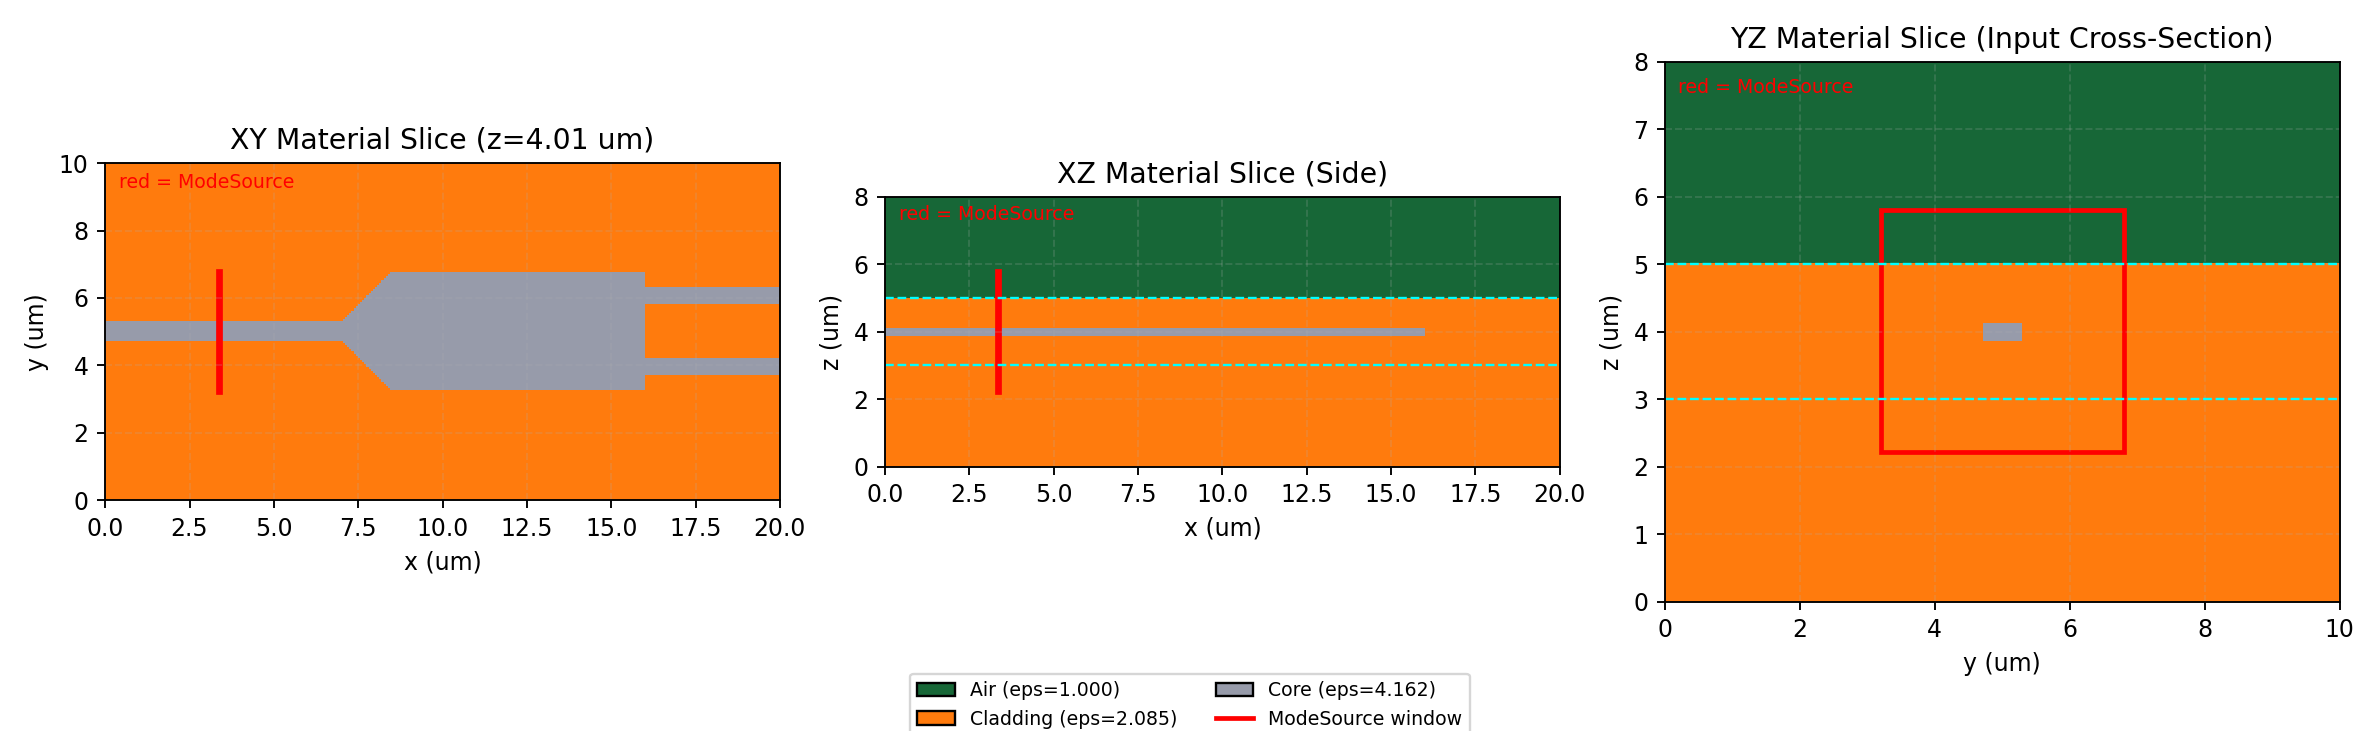
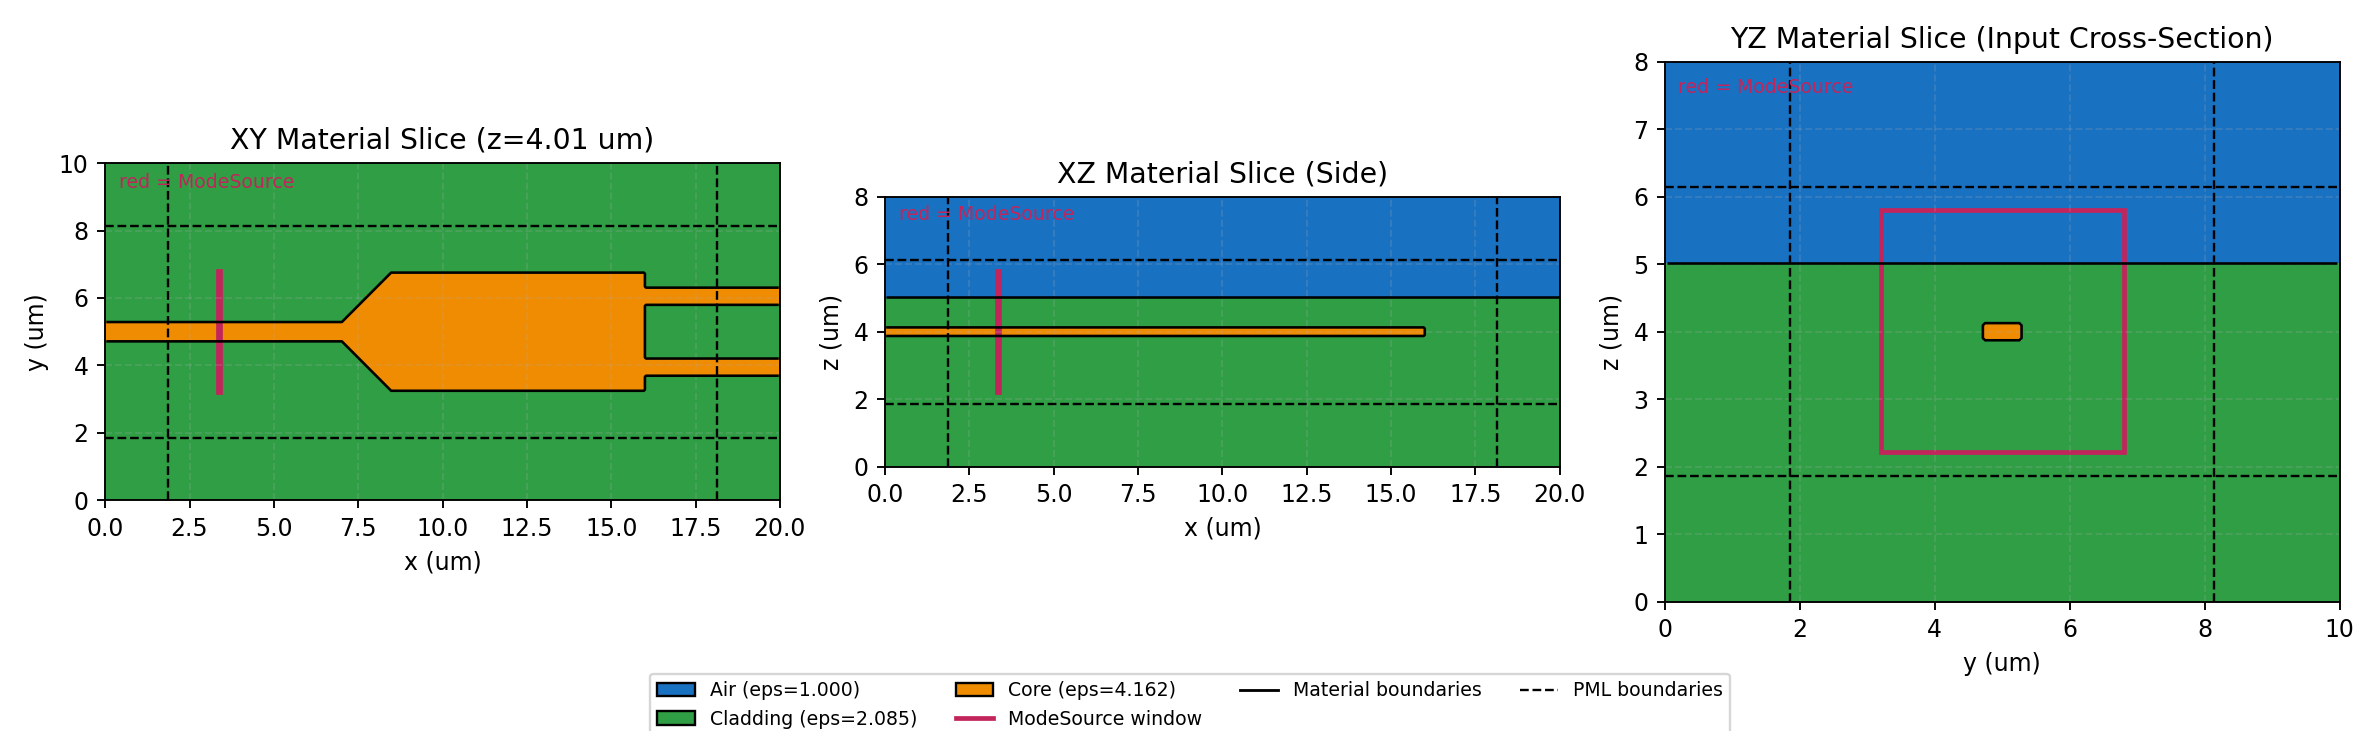
Update benchmark results and enhance example script for 3D MMI
- Revised benchmark_summary.json with updated elapsed time and performance metrics.
- Updated design_projections_xyz.png and flux_cumulative_normalized.png to reflect new simulation results.
- Enhanced example script to utilize color constants for material visualization and added contour outlines for clarity.

diff --git a/examples/1_mmi_3d.py b/examples/1_mmi_3d.py
@@ -32,6 +32,7 @@ from beamz import (
     um,
     µm,
 )
+from beamz.const import BLUE, GREEN, ORANGE, RED
 
 # -----------------------------------------------------------------------------
 # 3D extension of examples/1_mmi.py with matching x/y geometry and timespan.
@@ -170,7 +171,7 @@ source.initialize(grid.permittivity, DX, dt=DT)
 eps = np.asarray(grid.permittivity)
 eps_levels = np.asarray([N_AIR**2, N_CLAD**2, N_CORE**2], dtype=np.float32)
 material_names = ("Air", "Cladding", "Core")
-material_colors = ("C0", "C1", "C2")
+material_colors = (BLUE, GREEN, ORANGE)
 material_cmap = ListedColormap(material_colors)
 material_norm = BoundaryNorm(np.arange(-0.5, len(eps_levels) + 0.5, 1), material_cmap.N)
 
@@ -183,6 +184,7 @@ y_mid_idx = int(np.clip(round(source_center[1] / DX), 0, eps.shape[1] - 1))
 x_src_idx = int(np.clip(round(source_center[0] / DX), 0, eps.shape[2] - 1))
 xz = material_idx[:, y_mid_idx, :]  # z,x material slice
 yz = material_idx[:, :, x_src_idx]  # z,y material slice
+outline_levels = np.arange(0.5, len(eps_levels) - 0.5, 1.0)
 
 fig, axes = plt.subplots(1, 3, figsize=(14, 4.3))
 axes[0].imshow(
@@ -203,9 +205,17 @@ axes[0].add_patch(
         0.06,
         source_width / um,
         fill=False,
-        edgecolor="red",
+        edgecolor=RED,
         linewidth=2.0,
     )
+)
+axes[0].contour(
+    xy,
+    levels=outline_levels,
+    colors="black",
+    linewidths=1.1,
+    origin="lower",
+    extent=[0, X / um, 0, Y / um],
 )
 
 axes[1].imshow(
@@ -226,9 +236,17 @@ axes[1].add_patch(
         0.06,
         source_height / um,
         fill=False,
-        edgecolor="red",
+        edgecolor=RED,
         linewidth=2.0,
     )
+)
+axes[1].contour(
+    xz,
+    levels=outline_levels,
+    colors="black",
+    linewidths=1.1,
+    origin="lower",
+    extent=[0, X / um, 0, Z / um],
 )
 
 axes[2].imshow(
@@ -252,9 +270,17 @@ axes[2].add_patch(
         source_width / um,
         source_height / um,
         fill=False,
-        edgecolor="red",
+        edgecolor=RED,
         linewidth=2.0,
     )
+)
+axes[2].contour(
+    yz,
+    levels=outline_levels,
+    colors="black",
+    linewidths=1.1,
+    origin="lower",
+    extent=[0, Y / um, 0, Z / um],
 )
 
 for ax in axes:
@@ -267,16 +293,19 @@ for ax in axes:
         va="top",
         ha="left",
         fontsize=8,
-        color="red",
+        color=RED,
     )
-for ax in (axes[1], axes[2]):
-    ax.axhline(Z_SUBSTRATE / um, color="cyan", linestyle="--", linewidth=1.0)
-    ax.axhline(
-        (Z_SUBSTRATE + Z_CLADDING) / um,
-        color="cyan",
-        linestyle="--",
-        linewidth=1.0,
-    )
+def draw_pml_lines(ax, x_len_um: float, y_len_um: float, pml_um: float):
+    ax.axvline(pml_um, color="black", linestyle="--", linewidth=1.0)
+    ax.axvline(x_len_um - pml_um, color="black", linestyle="--", linewidth=1.0)
+    ax.axhline(pml_um, color="black", linestyle="--", linewidth=1.0)
+    ax.axhline(y_len_um - pml_um, color="black", linestyle="--", linewidth=1.0)
+
+
+pml_um = PML_THICKNESS / um
+draw_pml_lines(axes[0], X / um, Y / um, pml_um)
+draw_pml_lines(axes[1], X / um, Z / um, pml_um)
+draw_pml_lines(axes[2], Y / um, Z / um, pml_um)
 
 legend_handles = [
     Patch(
@@ -286,11 +315,17 @@ legend_handles = [
     )
     for i in range(len(material_names))
 ]
-legend_handles.append(Line2D([0], [0], color="red", lw=2.0, label="ModeSource window"))
+legend_handles.append(Line2D([0], [0], color=RED, lw=2.0, label="ModeSource window"))
+legend_handles.append(
+    Line2D([0], [0], color="black", lw=1.2, label="Material boundaries")
+)
+legend_handles.append(
+    Line2D([0], [0], color="black", lw=1.0, linestyle="--", label="PML boundaries")
+)
 fig.legend(
     handles=legend_handles,
     loc="lower center",
-    ncol=2,
+    ncol=4,
     frameon=True,
     fontsize=8,
     bbox_to_anchor=(0.5, -0.02),
@@ -478,8 +513,8 @@ np.savez(
 flux_png = OUT_DIR / "flux_cumulative_normalized.png"
 fig, axs = plt.subplots(2, 1, figsize=(9, 6.5), sharex=True)
 if power.size > 0:
-    axs[0].plot(time_s * 1e15, instant_norm, color="tab:blue", lw=1.2)
-    axs[1].plot(time_s * 1e15, cumulative_flux_norm, color="tab:orange", lw=1.6)
+    axs[0].plot(time_s * 1e15, instant_norm, color=BLUE, lw=1.2)
+    axs[1].plot(time_s * 1e15, cumulative_flux_norm, color=ORANGE, lw=1.6)
 axs[0].set_ylabel("Instantaneous Flux (norm.)")
 axs[1].set_ylabel("Cumulative Flux (norm.)")
 axs[1].set_xlabel("Time (fs)")
